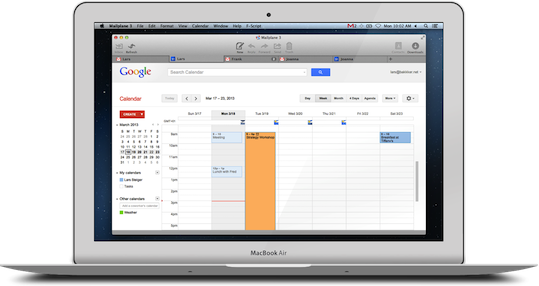
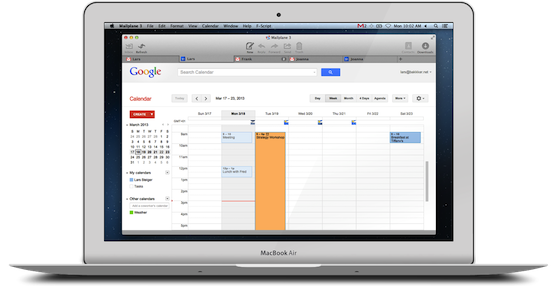
Fixed alignment of macbook_ pictures.

diff --git a/index.html b/index.html
@@ -22,7 +22,7 @@
 		only screen and (-o-min-device-pixel-ratio: 3/2),
 		only screen and (min-device-pixel-ratio: 1.5)
 		{
-		SECTION.slide1{background-image: url('/assets/macbook_tabs@2x.png');background-size:539px;}
+		SECTION.slide1{background-image: url('/assets/macbook_tabs@2x.png');background-size:559px;}
 		}
 		SECTION.slide2{background-image:url('/assets/macbook_calendar.png');background-color:transparent;background-repeat:no-repeat;background-position:0 53px;}
 		@media only screen and (-webkit-min-device-pixel-ratio: 1.5),
@@ -30,7 +30,7 @@
 		only screen and (-o-min-device-pixel-ratio: 3/2),
 		only screen and (min-device-pixel-ratio: 1.5)
 		{
-		SECTION.slide2{background-image: url('/assets/macbook_calendar@2x.png');background-size:539px;}
+		SECTION.slide2{background-image: url('/assets/macbook_calendar@2x.png');background-size:559px;}
 		}
 		SECTION.slide3{background-image:url('/assets/macbook_rethought.png');background-color:transparent;background-repeat:no-repeat;background-position:0 53px;}
 		@media only screen and (-webkit-min-device-pixel-ratio: 1.5),
@@ -38,7 +38,7 @@
 		only screen and (-o-min-device-pixel-ratio: 3/2),
 		only screen and (min-device-pixel-ratio: 1.5)
 		{
-		SECTION.slide3{background-image: url('/assets/macbook_rethought@2x.png');background-size:539px;}
+		SECTION.slide3{background-image: url('/assets/macbook_rethought@2x.png');background-size:559px;}
 		}
 		SECTION.slide4{background-image:url('/assets/macbook_newplugins.png');background-color:transparent;background-repeat:no-repeat;background-position:0 53px;}
 		@media only screen and (-webkit-min-device-pixel-ratio: 1.5),
@@ -46,7 +46,7 @@
 		only screen and (-o-min-device-pixel-ratio: 3/2),
 		only screen and (min-device-pixel-ratio: 1.5)
 		{
-		SECTION.slide4{background-image: url('/assets/macbook_newplugins@2x.png');background-size:539px;}
+		SECTION.slide4{background-image: url('/assets/macbook_newplugins@2x.png');background-size:559px;}
 		}
 
 
